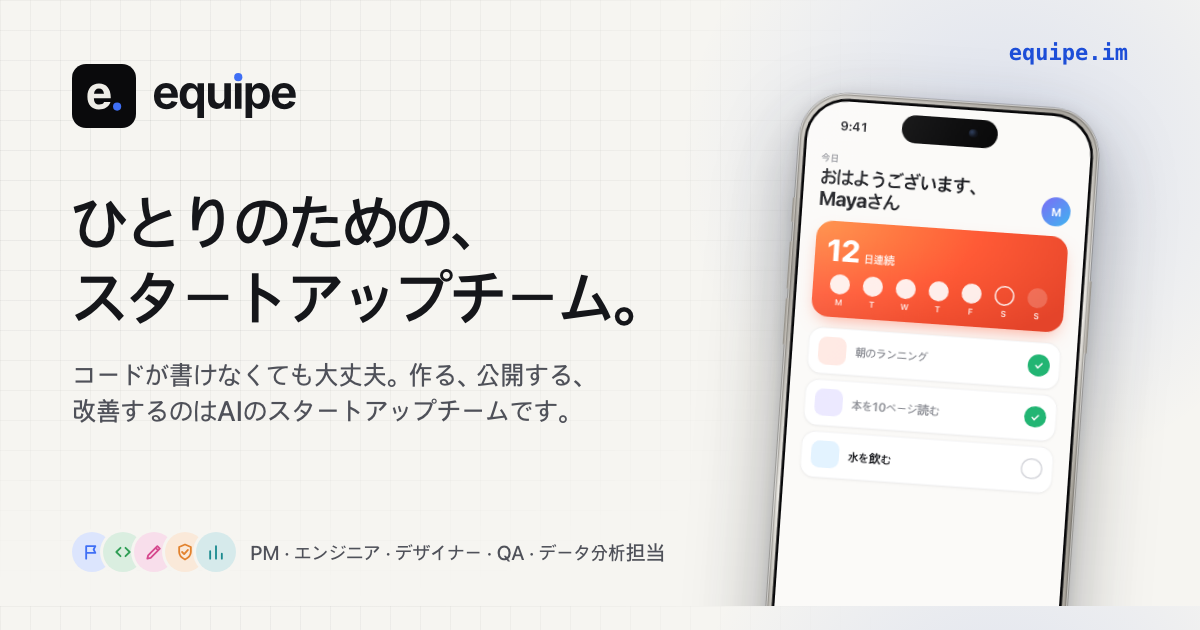
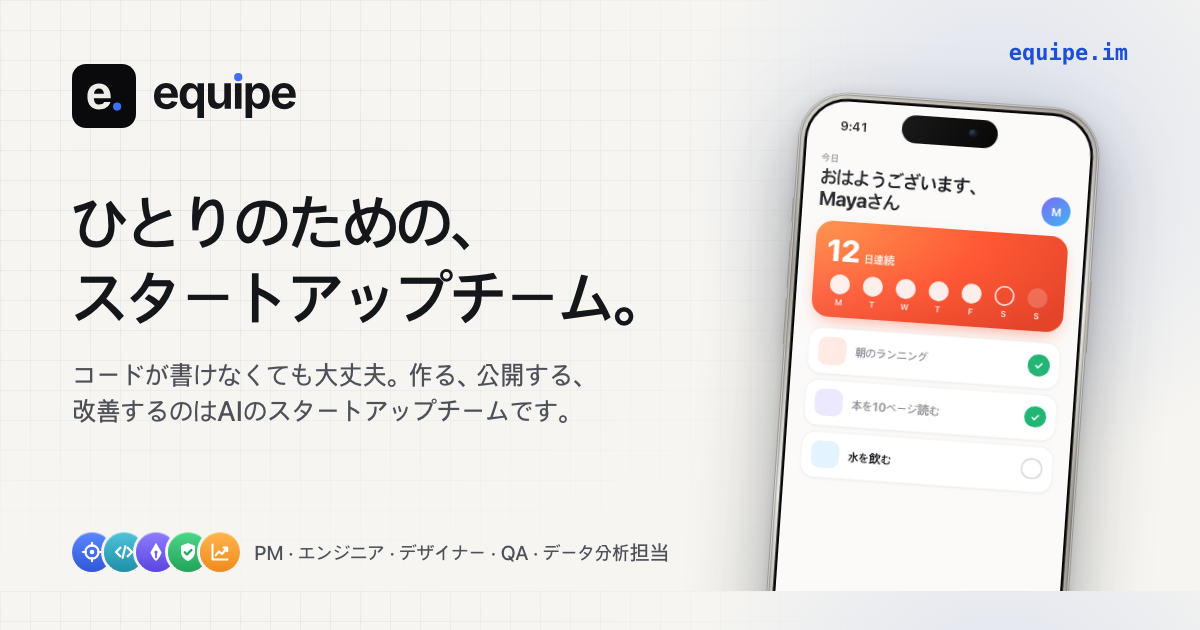
Gallery of live example products, regenerated OG images
- 'Built by equipe teams' home section: five live example products (src/data/gallery.json)
  in neutral browser and iPhone frames, light/dark screenshots (PNG sources + WebP),
  honest note that the businesses are fictional; 8 locales; gallery_open event.
- OG images re-rendered with the Apple-style role avatars.
- llms.txt lists the example products.

Changed region(s): [[0.0617, 0.8444, 0.555, 0.9048], [0.8633, 0.9349, 0.925, 0.9651], [0.6167, 0.9349, 0.6475, 0.9651]]

diff --git a/src/styles/sections.css b/src/styles/sections.css
@@ -466,3 +466,37 @@ main.home > section.hero { overflow: visible; overflow-x: clip; position: relati
 .it-pop .pop-f { margin: 4px 10px 4px; padding-top: 6px; font-size: 12px; line-height: 16px; }
 .it-pop .pop-h { margin-left: 8px; } .it-pop .pop-f { margin-left: 8px; margin-right: 8px; }
 .pfacts .pfact :is(h2, h3) { margin: 0 0 4px !important; font-size: 16px !important; line-height: 1.35 !important; letter-spacing: -0.005em !important; font-weight: 600 !important; }
+
+/* Gallery: live example products in neutral frames (browser chrome, iPhone) so their own palettes sit in one system. */
+.gal { list-style: none; margin: 0; padding: 0; display: grid; grid-template-columns: repeat(6, minmax(0, 1fr)); gap: 20px; }
+.gal-c { grid-column: span 2; min-width: 0; }
+.gal-c.big { grid-column: span 3; }
+.gal-c > a { display: flex; flex-direction: column; height: 100%; border-radius: 22px; border: 0.5px solid var(--line); background: var(--surface); color: inherit; text-decoration: none; overflow: hidden; transition: transform 300ms var(--ease, cubic-bezier(.22,1,.36,1)), box-shadow 300ms var(--ease, cubic-bezier(.22,1,.36,1)); }
+.gal-c > a:hover { transform: translateY(-2px); box-shadow: 0 24px 48px -28px rgb(16 18 24 / 0.35); }
+.gal-c > a:focus-visible { outline: 2px solid var(--accent); outline-offset: 3px; }
+.gal-v { position: relative; padding: 24px 24px 0; background: var(--sunken); border-bottom: 0.5px solid var(--line); overflow: hidden; }
+.gal-c.big .gal-v { padding: 32px 96px 0 32px; }
+.gal-br { border-radius: 12px 12px 0 0; overflow: hidden; background: var(--surface); box-shadow: 0 0 0 0.5px var(--line), 0 18px 40px -24px rgb(16 18 24 / 0.35); }
+.gal-bar { display: flex; align-items: center; gap: 10px; height: 30px; padding: 0 10px; background: var(--surface); border-bottom: 0.5px solid var(--line); }
+.gal-dots { display: inline-flex; gap: 5px; flex: none; } .gal-dots i { width: 8px; height: 8px; border-radius: 50%; background: color-mix(in srgb, var(--text) 16%, transparent); }
+.gal-url { flex: 1; min-width: 0; display: inline-flex; align-items: center; justify-content: center; gap: 4px; height: 20px; margin-right: 34px; border-radius: 6px; background: var(--sunken); font-size: 11px; color: var(--muted); white-space: nowrap; overflow: hidden; text-overflow: ellipsis; }
+.gal-url svg { width: 10px; height: 10px; flex: none; fill: none; stroke: currentColor; stroke-width: 2; stroke-linecap: round; stroke-linejoin: round; }
+.gal-br img { display: block; width: 100%; height: auto; aspect-ratio: 16 / 10; object-fit: cover; object-position: top; }
+.gal-ph { position: absolute; right: 22px; bottom: -64px; }
+.gal-ph .iph-screen { background: var(--sl); }
+.gal-ph .iph-content img { display: block; width: 100%; height: auto; }
+.gal .th-d { display: none !important; }
+:root[data-theme='dark'] .gal .th-d { display: block !important; }
+:root[data-theme='dark'] .gal .th-l { display: none !important; }
+:root[data-theme='dark'] .gal-ph .iph-screen { background: var(--sd); color: #F4F4F5; }
+.gal-t { display: flex; flex-direction: column; gap: 6px; padding: 20px 24px 22px; flex: 1; }
+.gal-k { display: flex; flex-wrap: wrap; gap: 6px 12px; margin: 0; font-size: 12.5px; color: var(--muted); }
+.gal-k span:first-child { color: var(--accent); font-weight: 600; }
+.gal-t h3 { margin: 0; font-size: 19px; line-height: 1.3; letter-spacing: -0.01em; }
+.gal-d { margin: 0; font-size: 15px; line-height: 1.5; color: var(--muted); }
+.gal-o { margin-top: auto; padding-top: 8px; display: inline-flex; align-items: center; gap: 4px; font-size: 14.5px; font-weight: 600; color: var(--accent); }
+.gal-o svg { width: 16px; height: 16px; fill: none; stroke: currentColor; stroke-width: 2; stroke-linecap: round; stroke-linejoin: round; transition: transform 300ms var(--ease, cubic-bezier(.22,1,.36,1)); }
+.gal-c > a:hover .gal-o svg { transform: translate(2px, -2px); }
+.gal-n { margin: 24px auto 0; max-width: 640px; text-align: center; font-size: 13.5px; line-height: 1.5; color: var(--muted); }
+@media (max-width: 1040px) { .gal { grid-template-columns: repeat(2, minmax(0, 1fr)); } .gal-c, .gal-c.big { grid-column: span 1; } .gal-c.big .gal-v { padding: 24px 24px 0; } .gal-ph { display: none; } }
+@media (max-width: 640px) { .gal { grid-template-columns: 1fr; gap: 16px; } .gal-v { padding: 16px 16px 0; } .gal-c.big .gal-v { padding: 16px 16px 0; } }

diff --git a/src/i18n/ja.ts b/src/i18n/ja.ts
@@ -160,6 +160,22 @@ const ja: Messages = {
       { title: '改善が続く', text: 'チームが実際の利用状況を見て次の一手を提案します。承認するか、あとにするかを選ぶだけ。' },
     ],
   },
+  gallery: {
+    kicker: 'equipeのチームが作ったプロダクト',
+    title: 'いま実際に公開中のプロダクトです。',
+    text: 'どれもequipeのチームが作って公開しました。開いて試してみてください。',
+    note: 'equipeのチームが作ったサンプルのプロダクトです。事業はデモ用の架空のものですが、サイトは実際に公開されています。',
+    open: 'サイトを開く',
+    made: '約{n}分で完成',
+    newTab: '新しいタブで開きます',
+    items: [
+      { category: '個人ツール', text: '習慣、集中タイマー、一行日記。非公開リンクに保存し、閲覧専用で共有できます。' },
+      { category: 'ローンチページ', text: '植物ケアアプリのバイリンガルなウェイトリスト。紹介順位と秘密の管理画面つき。' },
+      { category: '予約', text: '個人の韓国語講師向け予約。あなたのタイムゾーンでの空き状況、確認ページ、カレンダーファイル。' },
+      { category: 'ニュースレター・ブログ', text: '6号分の週刊ニュースレター。購読フォーム、RSS、次の号を書く管理ページ。' },
+      { category: 'ショップ', text: '少量生産の陶器ショップ。カード決済なしの購入リクエストと、注文・在庫の管理画面。' },
+    ],
+  },
   bento: { title: 'チームがすること', text: 'メンバーそれぞれに役割があります。すべての過程が見えて、大事なことはあなたが承認します。' },
   plans: {
     title: 'シンプルな料金',

diff --git a/src/i18n/fr.ts b/src/i18n/fr.ts
@@ -161,6 +161,22 @@ const fr: Messages = {
       { title: 'Il continue de s’améliorer', text: 'L’équipe suit l’usage réel et propose l’étape suivante. Vous dites oui, ou plus tard.' },
     ],
   },
+  gallery: {
+    kicker: 'Construit par des équipes equipe',
+    title: 'De vrais produits, en ligne maintenant.',
+    text: 'Chacun a été construit et lancé par une équipe equipe. Ouvrez celui que vous voulez.',
+    note: 'Des produits d’exemple construits par des équipes equipe. Les entreprises sont inventées pour la démo ; les sites sont réels et en ligne.',
+    open: 'Ouvrir le site',
+    made: 'Construit en environ {n} minutes',
+    newTab: 's’ouvre dans un nouvel onglet',
+    items: [
+      { category: 'Outil perso', text: 'Habitudes, minuteur de concentration et journal d’une ligne, enregistrés sur un lien privé partageable en lecture seule.' },
+      { category: 'Page de lancement', text: 'Une liste d’attente bilingue pour une app d’entretien des plantes, avec classement par parrainage et vue admin secrète.' },
+      { category: 'Réservations', text: 'Des réservations pour une prof de coréen : disponibilités dans votre fuseau horaire, page de confirmation et fichier calendrier.' },
+      { category: 'Newsletter et blog', text: 'Une newsletter hebdomadaire avec six numéros, formulaire d’inscription, RSS et une page admin pour écrire le suivant.' },
+      { category: 'Boutique', text: 'Une boutique de céramique en petites séries avec demande d’achat, sans gestion de carte, et un admin des commandes et du stock.' },
+    ],
+  },
   bento: { title: 'Ce que fait votre équipe', text: 'Chaque membre a son rôle. Vous voyez tout, et vous approuvez ce qui compte.' },
   plans: {
     title: 'Des prix simples',

diff --git a/src/i18n/es.ts b/src/i18n/es.ts
@@ -160,6 +160,22 @@ const es: Messages = {
       { title: 'Sigue mejorando', text: 'El equipo mira el uso real y propone el siguiente paso. Tú dices sí, o ahora no.' },
     ],
   },
+  gallery: {
+    kicker: 'Hecho por equipos de equipe',
+    title: 'Productos reales, en vivo ahora mismo.',
+    text: 'Cada uno lo construyó y lanzó un equipo de equipe. Abre el que quieras.',
+    note: 'Productos de ejemplo hechos por equipos de equipe. Los negocios son inventados para la demo; los sitios son reales y están en vivo.',
+    open: 'Abrir sitio',
+    made: 'Hecho en unos {n} minutos',
+    newTab: 'se abre en una pestaña nueva',
+    items: [
+      { category: 'Herramienta personal', text: 'Hábitos, un temporizador de concentración y un diario de una línea, guardados en un enlace privado que puedes compartir en solo lectura.' },
+      { category: 'Página de lanzamiento', text: 'Una lista de espera bilingüe para una app de cuidado de plantas, con puestos por referidos y una vista de admin secreta.' },
+      { category: 'Reservas', text: 'Reservas para una tutora de coreano: disponibilidad en tu zona horaria, página de confirmación y archivo de calendario.' },
+      { category: 'Newsletter y blog', text: 'Un newsletter semanal con seis números, formulario de suscripción, RSS y una página de admin para escribir el siguiente.' },
+      { category: 'Tienda', text: 'Una tienda de cerámica en pequeños lotes con solicitud de compra, sin manejar tarjetas, y un admin de pedidos y stock.' },
+    ],
+  },
   bento: { title: 'Lo que hace tu equipo', text: 'Cada miembro tiene su tarea. Lo ves todo, y tú apruebas lo importante.' },
   plans: {
     title: 'Precios sencillos',

diff --git a/src/i18n/ko.ts b/src/i18n/ko.ts
@@ -160,6 +160,22 @@ const ko: Messages = {
       { title: '계속 좋아져요', text: '팀이 실제 사용 데이터를 보고 다음 걸음을 제안해요. 좋다고 하거나, 나중에 하자고 하면 돼요.' },
     ],
   },
+  gallery: {
+    kicker: 'equipe 팀이 만든 제품',
+    title: '지금 실제로 운영 중인 제품들이에요.',
+    text: '모두 equipe 팀이 만들고 출시했어요. 직접 열어 보세요.',
+    note: 'equipe 팀이 만든 예시 제품이에요. 사업체는 데모용으로 지어낸 것이지만, 사이트는 실제로 운영 중이에요.',
+    open: '사이트 열기',
+    made: '약 {n}분 만에 완성',
+    newTab: '새 탭에서 열림',
+    items: [
+      { category: '개인 도구', text: '습관, 집중 타이머, 한 줄 일기를 비공개 링크에 저장하고 읽기 전용으로 공유해요.' },
+      { category: '출시 페이지', text: '식물 관리 앱의 2개 국어 대기자 페이지. 추천 순위와 숨겨진 관리자 화면까지.' },
+      { category: '예약', text: '1인 한국어 강사를 위한 예약. 내 시간대 기준 실시간 일정, 확인 페이지, 캘린더 파일.' },
+      { category: '뉴스레터·블로그', text: '여섯 호가 담긴 주간 뉴스레터. 구독 폼, RSS, 다음 호를 쓰는 관리자 페이지.' },
+      { category: '쇼핑몰', text: '소량 생산 도자기 숍. 카드 결제 없이 구매 요청을 받고, 주문과 재고를 관리해요.' },
+    ],
+  },
   bento: { title: '내 팀이 하는 일', text: '멤버마다 맡은 일이 있어요. 모든 과정이 보이고, 중요한 건 내가 승인해요.' },
   plans: {
     title: '간단한 요금',

diff --git a/src/i18n/pt-BR.ts b/src/i18n/pt-BR.ts
@@ -160,6 +160,22 @@ const ptBR: Messages = {
       { title: 'Continua melhorando', text: 'O time acompanha o uso real e propõe o próximo passo. Você diz sim, ou agora não.' },
     ],
   },
+  gallery: {
+    kicker: 'Feito por times da equipe',
+    title: 'Produtos reais, no ar agora.',
+    text: 'Cada um foi construído e lançado por um time da equipe. Abra qualquer um.',
+    note: 'Produtos de exemplo feitos por times da equipe. Os negócios são inventados para a demo; os sites são reais e estão no ar.',
+    open: 'Abrir site',
+    made: 'Feito em cerca de {n} minutos',
+    newTab: 'abre em uma nova aba',
+    items: [
+      { category: 'Ferramenta pessoal', text: 'Hábitos, um timer de foco e um diário de uma linha, salvos em um link privado que você pode compartilhar só para leitura.' },
+      { category: 'Página de lançamento', text: 'Uma lista de espera bilíngue para um app de cuidado de plantas, com posições por indicação e uma área de admin secreta.' },
+      { category: 'Agendamentos', text: 'Agendamento para uma professora de coreano: horários no seu fuso, página de confirmação e arquivo de calendário.' },
+      { category: 'Newsletter e blog', text: 'Uma newsletter semanal com seis edições, formulário de inscrição, RSS e uma página de admin para escrever a próxima.' },
+      { category: 'Loja', text: 'Uma loja de cerâmica em pequenos lotes com pedido de compra, sem lidar com cartão, e um admin de pedidos e estoque.' },
+    ],
+  },
   bento: { title: 'O que seu time faz', text: 'Cada membro tem sua função. Você vê tudo e aprova o que importa.' },
   plans: {
     title: 'Preços simples',

diff --git a/src/i18n/de.ts b/src/i18n/de.ts
@@ -160,6 +160,22 @@ const de: Messages = {
       { title: 'Es wird immer besser', text: 'Das Team schaut auf die echte Nutzung und schlägt den nächsten Schritt vor. Du sagst ja oder jetzt nicht.' },
     ],
   },
+  gallery: {
+    kicker: 'Gebaut von equipe-Teams',
+    title: 'Echte Produkte, jetzt live.',
+    text: 'Jedes wurde von einem equipe-Team gebaut und veröffentlicht. Öffne einfach eins.',
+    note: 'Beispielprodukte, gebaut von equipe-Teams. Die Firmen sind für die Demo erfunden; die Seiten sind echt und live.',
+    open: 'Seite öffnen',
+    made: 'In etwa {n} Minuten gebaut',
+    newTab: 'öffnet in einem neuen Tab',
+    items: [
+      { category: 'Persönliches Tool', text: 'Gewohnheiten, ein Fokus-Timer und ein Ein-Satz-Tagebuch, gespeichert unter einem privaten Link, den du lesend teilen kannst.' },
+      { category: 'Launch-Seite', text: 'Eine zweisprachige Warteliste für eine Pflanzenpflege-App, mit Empfehlungsplätzen und geheimer Admin-Ansicht.' },
+      { category: 'Buchungen', text: 'Buchung für eine Koreanisch-Lehrerin: freie Termine in deiner Zeitzone, Bestätigungsseite und Kalenderdatei.' },
+      { category: 'Newsletter und Blog', text: 'Ein wöchentlicher Newsletter mit sechs Ausgaben, Anmeldeformular, RSS und einer Admin-Seite für die nächste Ausgabe.' },
+      { category: 'Shop', text: 'Ein Keramik-Shop für Kleinserien mit Kaufanfrage statt Kartenzahlung und einer Verwaltung für Bestellungen und Bestand.' },
+    ],
+  },
   bento: { title: 'Was dein Team macht', text: 'Jedes Mitglied hat seine Aufgabe. Du siehst alles und gibst frei, was zählt.' },
   plans: {
     title: 'Einfache Preise',

diff --git a/src/i18n/en.ts b/src/i18n/en.ts
@@ -164,6 +164,22 @@ export const en = {
       { title: 'It keeps improving', text: 'The team watches real usage and proposes the next step. You say yes, or not now.' },
     ],
   },
+  gallery: {
+    kicker: 'Built by equipe teams',
+    title: 'Real products, live right now.',
+    text: 'Each one was built and launched by an equipe team. Open any of them.',
+    note: 'Example products built by equipe teams. The businesses are made up for the demo; the sites are real and live.',
+    open: 'Open site',
+    made: 'Built in about {n} minutes',
+    newTab: 'opens in a new tab',
+    items: [
+      { category: 'Personal tool', text: 'Habits, a focus timer and a one-line journal, saved to a private link you can share read-only.' },
+      { category: 'Launch page', text: 'A bilingual waitlist page for a plant-care app, with referral positions and a secret admin view.' },
+      { category: 'Bookings', text: 'Booking for a solo Korean tutor: live availability in your timezone, confirmation page and calendar file.' },
+      { category: 'Newsletter and blog', text: 'A weekly newsletter with six issues, a subscribe form, RSS and an admin page to write the next one.' },
+      { category: 'Shop', text: 'A small-batch pottery shop with a request-to-buy flow, no card handling, and an orders and stock admin.' },
+    ],
+  },
   bento: { title: 'What your team does', text: 'Each member has a job. You see all of it, and you approve what matters.' },
   plans: {
     title: 'Simple pricing',

diff --git a/src/i18n/zh-CN.ts b/src/i18n/zh-CN.ts
@@ -160,6 +160,22 @@ const zhCN: Messages = {
       { title: '持续改进', text: '团队查看真实使用情况并提出下一步。你只需同意，或者稍后再说。' },
     ],
   },
+  gallery: {
+    kicker: 'equipe 团队做出的产品',
+    title: '真实的产品，现在就在线。',
+    text: '每一个都由 equipe 团队搭建并上线。随便打开看看。',
+    note: '这些是 equipe 团队做的示例产品。商家是为演示虚构的，网站是真实在线的。',
+    open: '打开网站',
+    made: '约 {n} 分钟完成',
+    newTab: '在新标签页打开',
+    items: [
+      { category: '个人工具', text: '习惯、专注计时器和一句话日记，保存在私密链接里，可只读分享。' },
+      { category: '上线页', text: '植物养护应用的双语候补名单页，带推荐排名和隐藏的管理视图。' },
+      { category: '预约', text: '为独立韩语老师做的预约：按你的时区显示实时空档，有确认页和日历文件。' },
+      { category: '通讯与博客', text: '已有六期的每周通讯，带订阅表单、RSS 和撰写下一期的管理页。' },
+      { category: '小店', text: '小批量陶器店：用“申请购买”流程，不处理银行卡，带订单和库存管理。' },
+    ],
+  },
   bento: { title: '你的团队做什么', text: '每位成员各司其职。全过程你都看得见，重要的事由你批准。' },
   plans: {
     title: '简单的价格',

diff --git a/docs/analytics.md b/docs/analytics.md
@@ -78,6 +78,7 @@ PostHog는 `posthog-js`의 slim 빌드(약 50KB gzip)를 **동적 import**한다
 | `idea_submit` | `location`: `hero` / `band`, `has_idea`, `length` | 아이디어 상자 제출 (app.equipe.im/start?idea=… 로 이동). 홈의 주 행동 |
 | `signup_cta_click` | `location`: `header` / `how` / `compare` / `footer` / `developers` | "시작하기" 버튼·링크 클릭 (app.equipe.im/start) |
 | `signin_click` | `location`: `header` / `band` / `footer` | "로그인" 링크 클릭 (app.equipe.im/login) |
+| `gallery_open` | `location`: 제품 slug (`littlewins` / `fernly` / `jiwoo` / `smallhours` / `tidepool`) | 홈 "Built by equipe teams" 갤러리의 예시 제품 카드 클릭 (새 탭으로 열림) |
 | `early_access_cta_click`, `early_access_submitted`, `early_access_failed` | — | 셀프 가입 전환(2026-11) 이후 발생하지 않는다. 과거 데이터만 남는다 |
 | `developers_link_click` | `location`: `header` / `footer` / `faq` | `/developers` 링크 클릭 |
 | `cta_github_click` | `location`: `hero` / `header` / `footer` / `developers` | GitHub로 가는 CTA·링크 클릭 |
